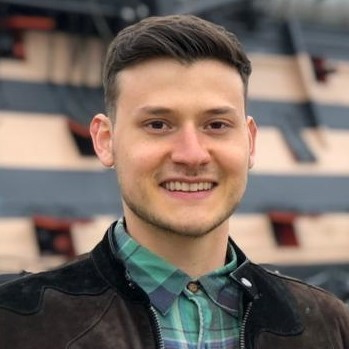
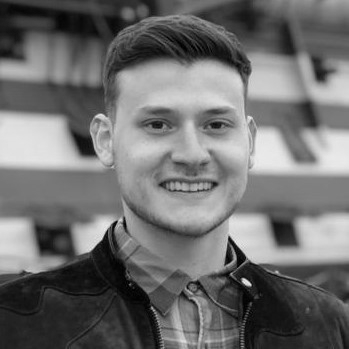
removed filters from team pictures

diff --git a/css/styles.css b/css/styles.css
@@ -650,25 +650,20 @@ section.section-2 {
 	float: left;
 	transition: box-shadow 0.3s;
 	outline:1px solid transparent;
-    background-blend-mode: luminosity;
-	
 	background-repeat: no-repeat;
 	background-size: 100%;
 }
 
 .vito {
 	background-image: url('../images/vito.jpg');
-	background-color: rgba(3,247,255, 1);
 }
 
 .gian {
 	background-image: url('../images/gian.jpg');
-	background-color: rgba(3,247,255, 1);
 }
 
 .carolina {
 	background-image: url('../images/carolina.jpg');
-	background-color: rgba(211,15,239, 1);
 }
 
 .team-item:hover {
